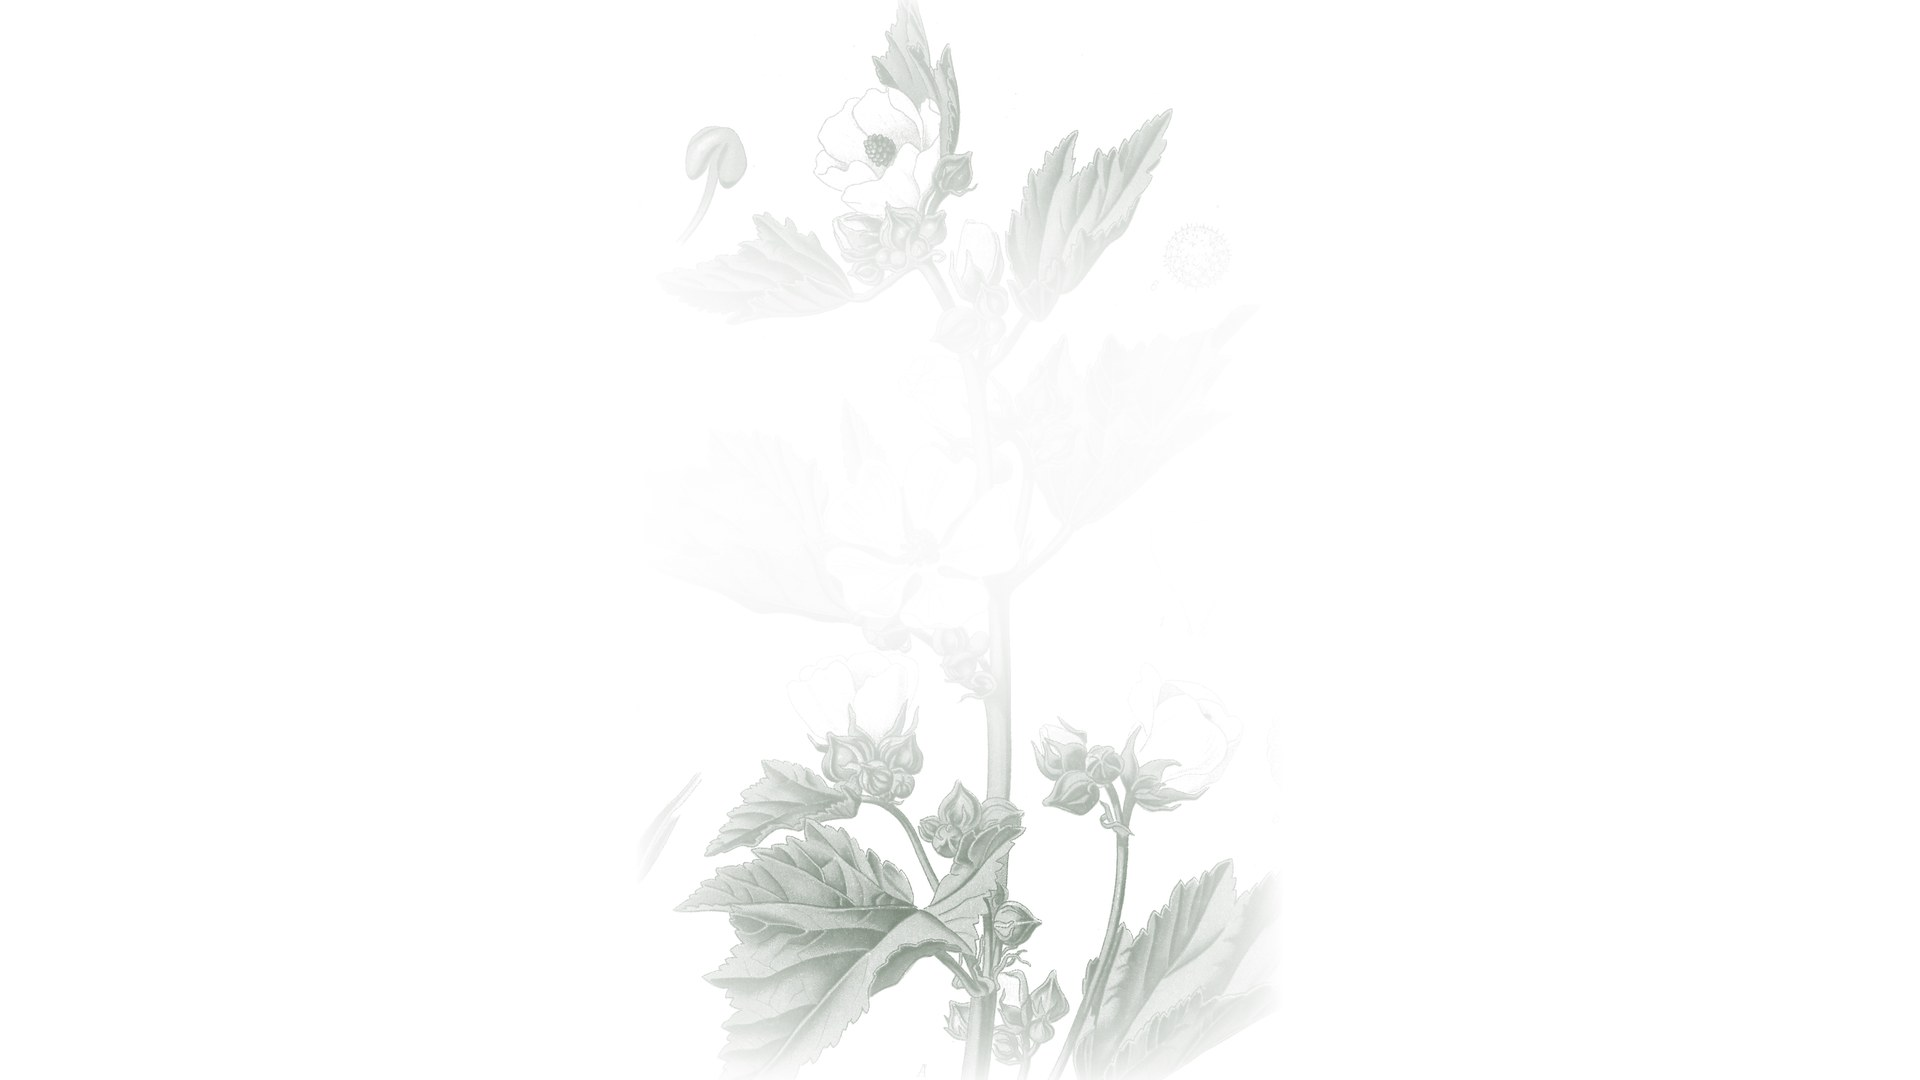
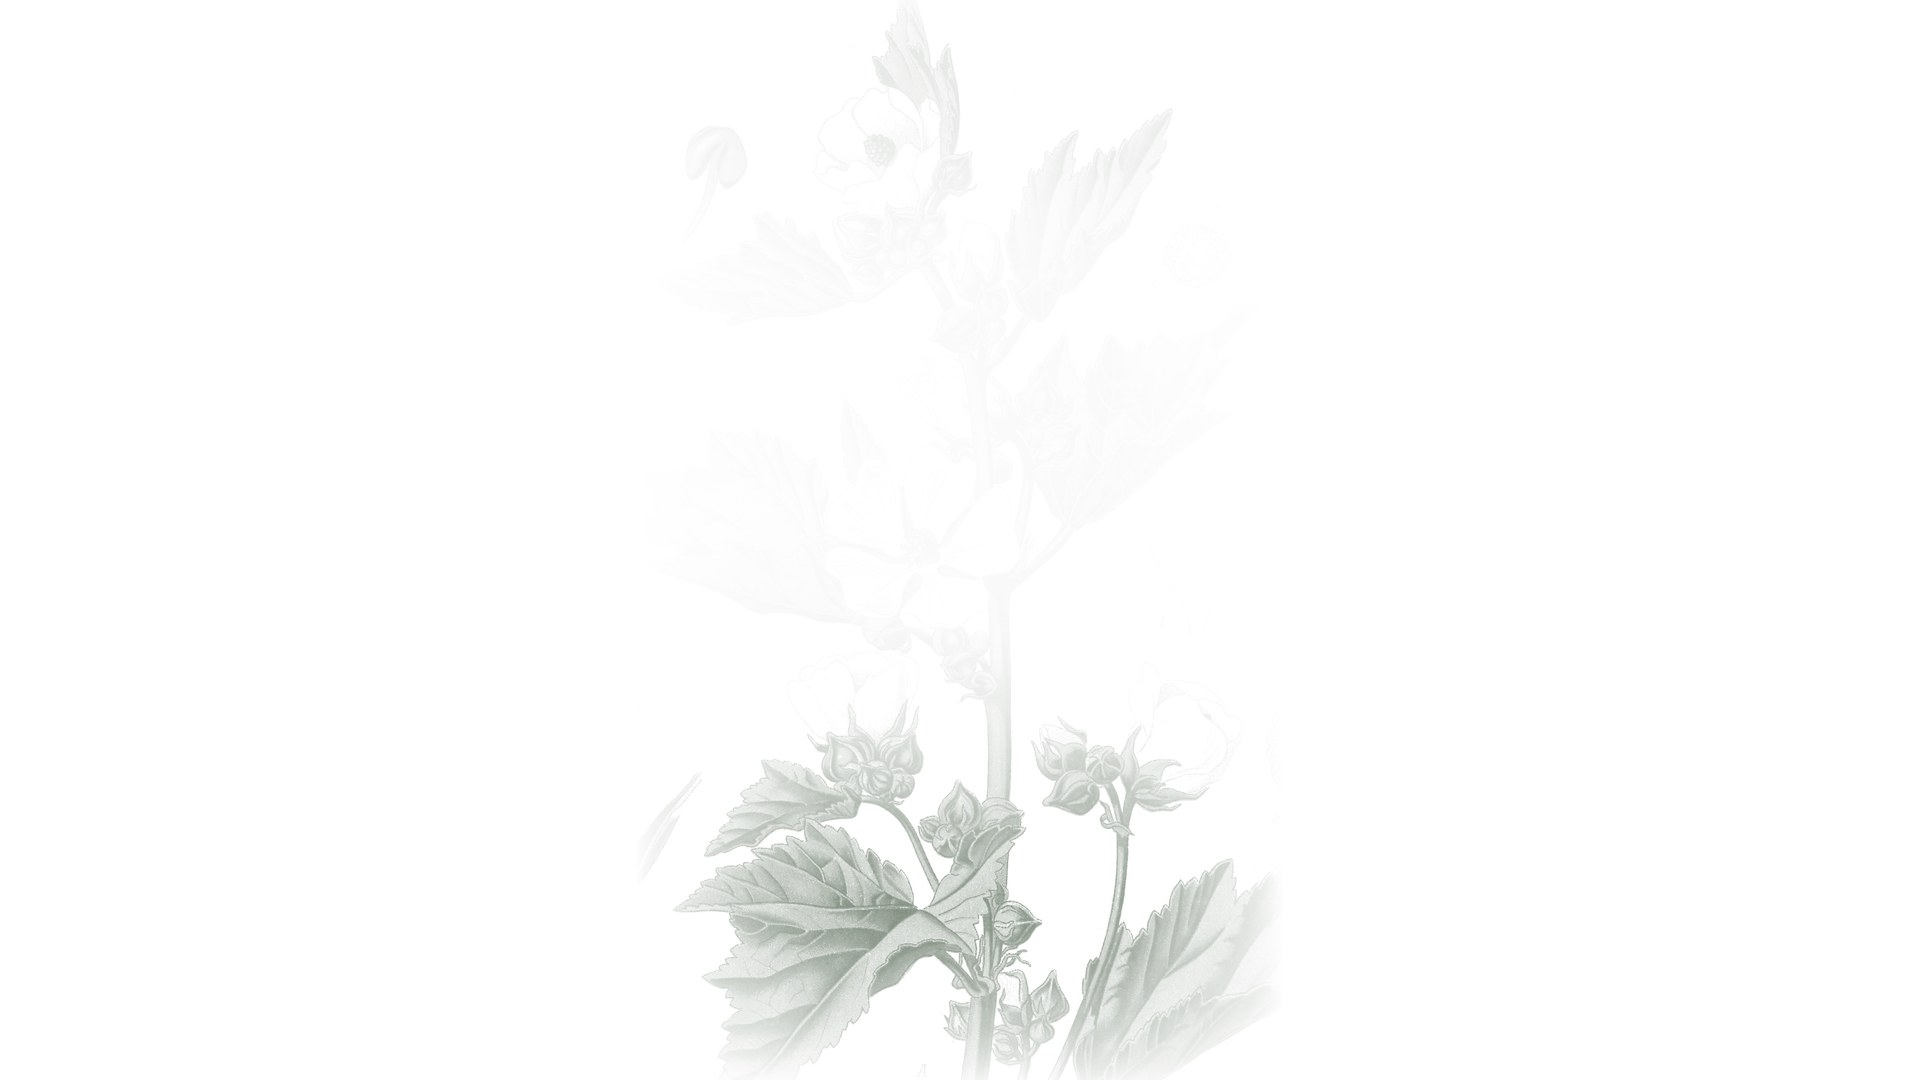
Fix accent-text contrast and mobile menu tap targets
Two accessibility defects, both pre-existing and both made visible by the 70%
hero watermarks in #430.

ACCENT TEXT. --eden-gold measures 2.51:1 on eden-cream and --eden-sage 2.82:1,
both well under the 4.5:1 AA floor for small text, with no image involved. Over
the watermark the gold eyebrows fell to 1.64:1.

Neither token could simply be darkened: --eden-gold has 394 usages including the
deep-green footer, where darkening it makes contrast worse, not better. So this
adds two TEXT-ONLY tokens next to them and leaves the brand accents untouched:

  --eden-gold-ink: 40 55% 32%    (#7E6125)
  --eden-sage-ink: 140 15% 32%   (#455E4E)

Applied only to gold/sage TEXT inside the nine hero sections. Dividers and rules
use background-color and are deliberately unchanged. The brand palette SSOT is
the Brand Voice Guide docx, not src/index.css, so no brand value was edited.

The hero watermark clearing was also extended to the top of the frame, because
on the tall heroes (homeschool 808px, courses 880px) the eyebrow sits at y~0.14
where the old clearing had barely ramped up and the plant was at full strength
directly behind it.

Measured against the exact image region behind each label, at 70%:

  homeschool 4.89 / 6.45 / 6.45    courses 4.91    community 4.96
  freebies   5.23 / 4.67           why-eden 4.83   contact  5.23
  preorder   5.23                  starter 5.23 / 4.80   herbs 5.18

All pass.

TAP TARGETS. The six text links in the mobile menu were 20px tall on a 40px
[…]

Changed region(s): [[0.4375, 0.0306, 0.625, 0.2139]]

diff --git a/src/index.css b/src/index.css
@@ -42,11 +42,21 @@
     --eden-parchment: 40 33% 93%;
     --eden-parchment-dark: 40 25% 88%;
     --eden-gold: 40 55% 50%;
+    /* Text-only gold. --eden-gold is the brand accent and is 2.51:1 on eden-cream,
+       under the 4.5:1 AA floor for small text; it must not be darkened globally
+       because it is also used on the deep-green footer where darkening it is worse.
+       Use --eden-gold-ink for gold TEXT on light grounds. Measured 4.67:1 worst case
+       over the 70% hero watermarks. Brand palette SSOT is the Brand Voice Guide docx,
+       not this file. */
+    --eden-gold-ink: 40 55% 32%;
     --eden-gold-light: 40 60% 65%;
     --eden-bark: 30 25% 12%;
     --eden-bark-light: 30 15% 30%;
     --eden-cream: 40 40% 97%;
     --eden-sage: 140 15% 55%;
+    /* Text-only sage, same reasoning as --eden-gold-ink: --eden-sage is 2.82:1 on
+       eden-cream and fails AA for small text, but is also used on dark grounds. */
+    --eden-sage-ink: 140 15% 32%;
 
     /* Homepage semantic tokens */
     --cream: 40 33% 95%;

diff --git a/src/components/landing/Navbar.tsx b/src/components/landing/Navbar.tsx
@@ -85,7 +85,7 @@ export default function Navbar() {
         </button>
       </div>
       {open && (
-        <div className="min-[1340px]:hidden bg-[#FAF8F3] border-t border-[#D6CDB8] px-6 pb-6 pt-4 flex flex-col gap-5">
+        <div className="min-[1340px]:hidden bg-[#FAF8F3] border-t border-[#D6CDB8] px-6 pb-6 pt-4 flex flex-col gap-5 [&>a]:min-h-[44px] [&>a]:inline-flex [&>a]:items-center">
           {navLinks.map((link) => renderLink(link, () => setOpen(false)))}
           <Link
             to="/assessment"
